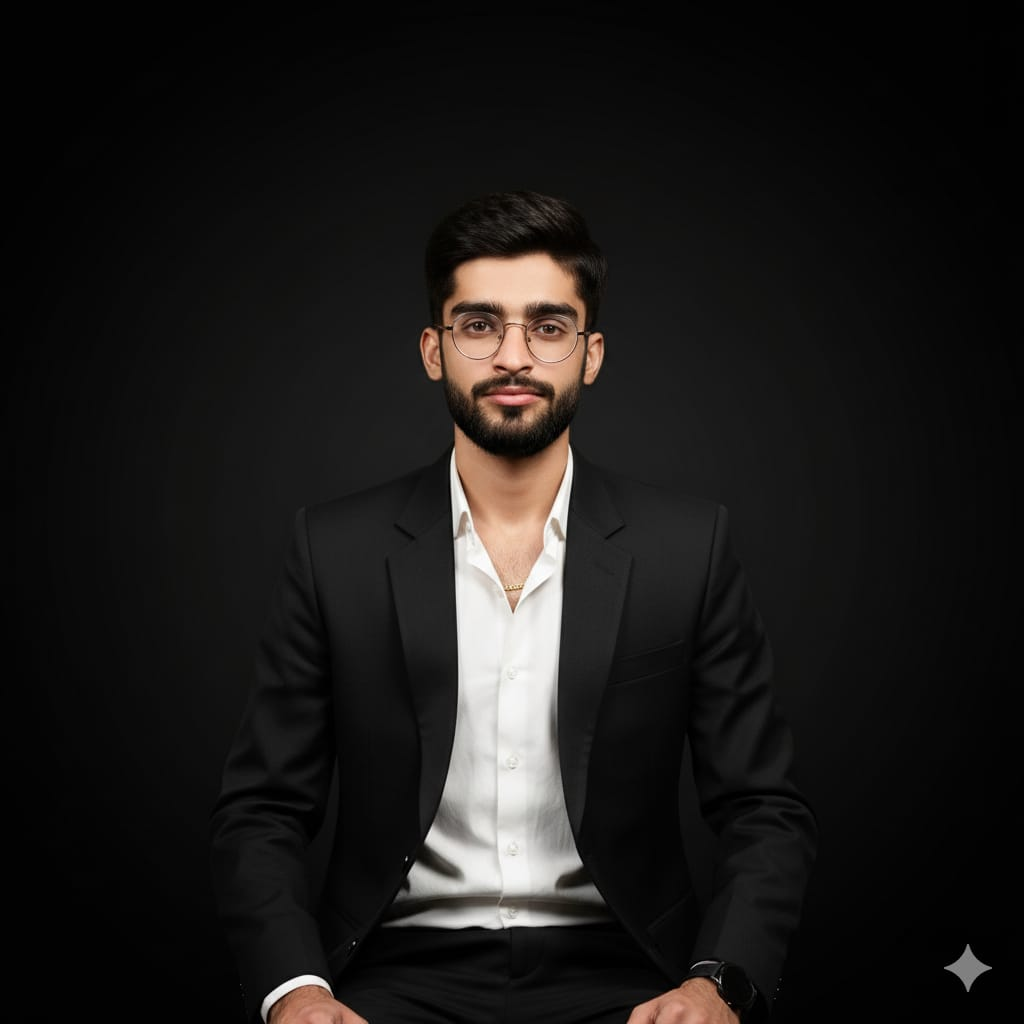
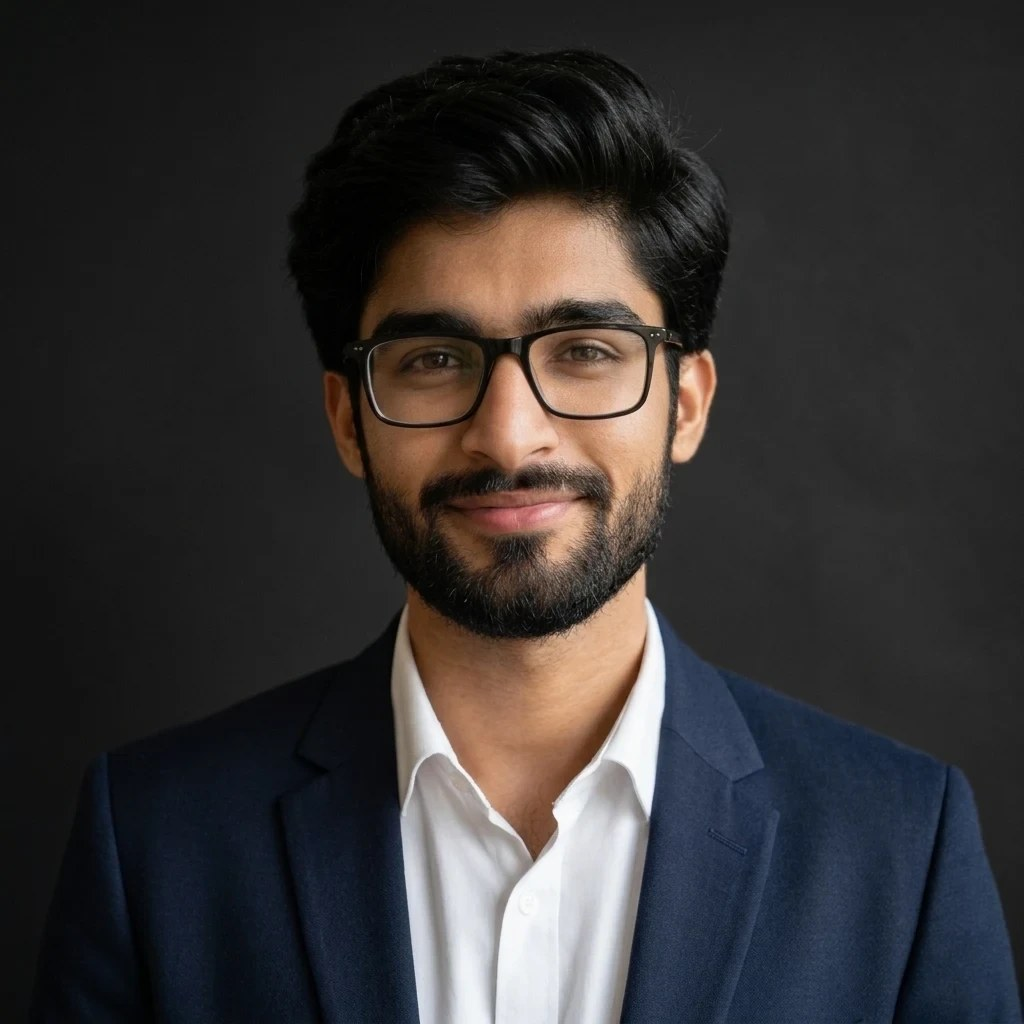
Replace profile photo and blend it into the hero
- New headshot (WebP) in the hero; old photo removed
- Link-preview image (og-image.jpg) updated to the new photo
- Soft navy edge fade so the photo backdrop blends into the page

diff --git a/src/components/HeroSection.tsx b/src/components/HeroSection.tsx
@@ -1,5 +1,5 @@
 import { ArrowDown, ArrowUpRight, Cloud, Download, GitBranch, Server, ShieldCheck } from 'lucide-react';
-import profilePhoto from '@/assets/profile-photo.jpg';
+import profilePhoto from '@/assets/profile-photo.webp';
 import { heroStack, profile } from '@/data/portfolio';
 
 const HeroSection = () => {
@@ -62,6 +62,15 @@ const HeroSection = () => {
                 src={profilePhoto}
                 alt={profile.name}
                 className="h-full w-full rounded-full object-cover"
+              />
+              {/* Soft navy fade: blends the photo's grey backdrop into the page, keeps the face untouched */}
+              <div
+                aria-hidden
+                className="pointer-events-none absolute inset-2 rounded-full"
+                style={{
+                  background:
+                    'radial-gradient(circle at 50% 44%, transparent 0%, transparent 46%, hsl(224 71% 4% / 0.35) 62%, hsl(224 71% 4% / 0.7) 80%, hsl(224 71% 4% / 0.9) 100%)',
+                }}
               />
             </div>
 
